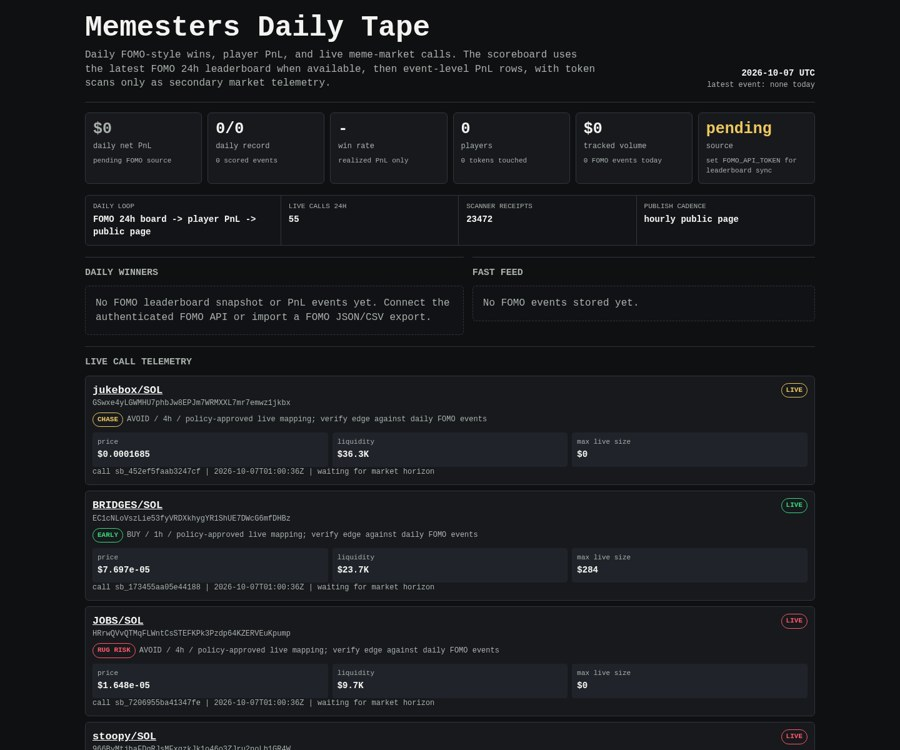
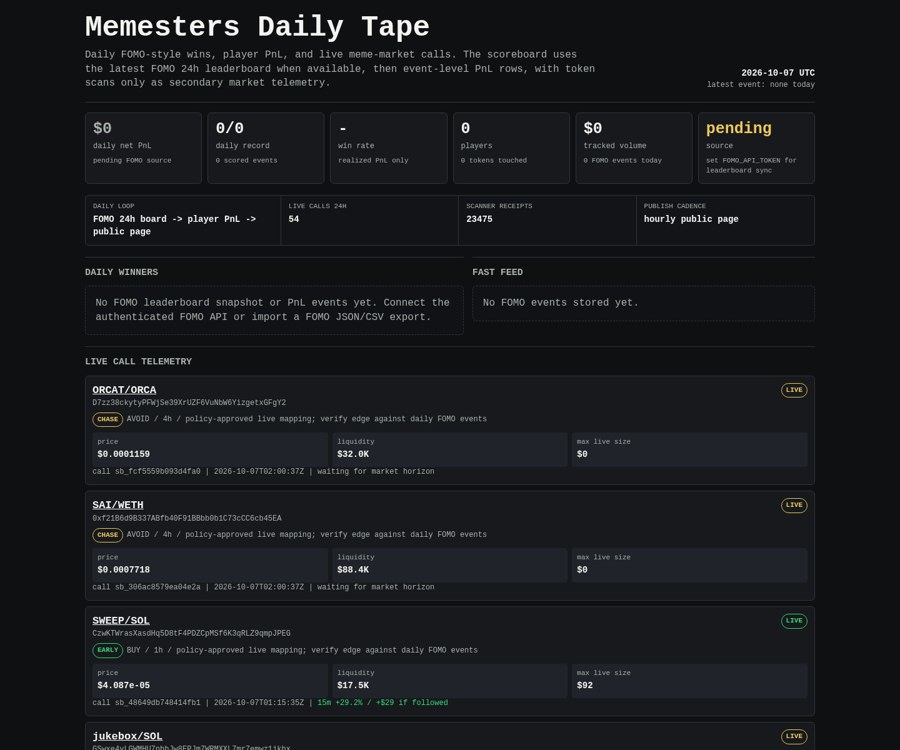
Update Memesters scoreboard

diff --git a/memesters/index.html b/memesters/index.html
@@ -149,8 +149,8 @@
 
     <div class="rail" aria-label="live operating loop">
       <div><span>daily loop</span><b>FOMO 24h board -> player PnL -> public page</b></div>
-      <div><span>live calls 24h</span><b>55</b></div>
-      <div><span>scanner receipts</span><b>23472</b></div>
+      <div><span>live calls 24h</span><b>54</b></div>
+      <div><span>scanner receipts</span><b>23475</b></div>
       <div><span>publish cadence</span><b>hourly public page</b></div>
     </div>
 
@@ -171,6 +171,69 @@
     <article class="receipt">
       <div class="receipt-head">
         <div>
+          <div class="pair"><a href="https://dexscreener.com/solana/8wxobaaaf3gjeaxaklpiapjtpxt2pb7sfdi8qwyp2jr3">ORCAT/ORCA</a></div>
+          <div class="addr">D7zz38ckytyPFWjSe39XrUZF6VuNbW6YizgetxGFgY2</div>
+          <div class="addr policy-line">
+            <span class="badge chase">CHASE</span>
+            <span>AVOID / 4h / policy-approved live mapping; verify edge against daily FOMO events</span>
+          </div>
+        </div>
+        <span class="badge chase">LIVE</span>
+      </div>
+      <div class="receipt-grid">
+        <div class="kv"><span>price</span><b>$0.0001159</b></div>
+        <div class="kv"><span>liquidity</span><b>$32.0K</b></div>
+        <div class="kv"><span>max live size</span><b>$0</b></div>
+      </div>
+      <div class="outcomes">call sb_fcf5559b093d4fa0 | 2026-10-07T02:00:37Z | waiting for market horizon</div>
+    </article>
+    
+
+    <article class="receipt">
+      <div class="receipt-head">
+        <div>
+          <div class="pair"><a href="https://dexscreener.com/robinhood/0xddefc8467c9b77e3f2c1525e0cb0f453e4408fc0">SAI/WETH</a></div>
+          <div class="addr">0xf21B6d9B337ABfb40F91BBbb0b1C73cCC6cb45EA</div>
+          <div class="addr policy-line">
+            <span class="badge chase">CHASE</span>
+            <span>AVOID / 4h / policy-approved live mapping; verify edge against daily FOMO events</span>
+          </div>
+        </div>
+        <span class="badge chase">LIVE</span>
+      </div>
+      <div class="receipt-grid">
+        <div class="kv"><span>price</span><b>$0.0007718</b></div>
+        <div class="kv"><span>liquidity</span><b>$88.4K</b></div>
+        <div class="kv"><span>max live size</span><b>$0</b></div>
+      </div>
+      <div class="outcomes">call sb_306ac8579ea04e2a | 2026-10-07T02:00:37Z | waiting for market horizon</div>
+    </article>
+    
+
+    <article class="receipt">
+      <div class="receipt-head">
+        <div>
+          <div class="pair"><a href="https://dexscreener.com/solana/a31padxqwx3qy23u8akki1ww4m4pyvrn1nxm6wqvlvqm">SWEEP/SOL</a></div>
+          <div class="addr">CzwKTWrasXasdHq5D8tF4PDZCpMSf6K3qRLZ9qmpJPEG</div>
+          <div class="addr policy-line">
+            <span class="badge early">EARLY</span>
+            <span>BUY / 1h / policy-approved live mapping; verify edge against daily FOMO events</span>
+          </div>
+        </div>
+        <span class="badge early">LIVE</span>
+      </div>
+      <div class="receipt-grid">
+        <div class="kv"><span>price</span><b>$4.087e-05</b></div>
+        <div class="kv"><span>liquidity</span><b>$17.5K</b></div>
+        <div class="kv"><span>max live size</span><b>$92</b></div>
+      </div>
+      <div class="outcomes">call sb_48649db748414fb1 | 2026-10-07T01:15:35Z | <span class="positive">15m +29.2% / +$29 if followed</span></div>
+    </article>
+    
+
+    <article class="receipt">
+      <div class="receipt-head">
+        <div>
           <div class="pair"><a href="https://dexscreener.com/solana/5v6rnh61u9akohnldzyvdqh4usz8run6vxzsbyhpf7fj">jukebox/SOL</a></div>
           <div class="addr">GSwxe4yLGWMHU7phbJw8EPJm7WRMXXL7mr7emwz1jkbx</div>
           <div class="addr policy-line">
@@ -185,7 +248,7 @@
         <div class="kv"><span>liquidity</span><b>$36.3K</b></div>
         <div class="kv"><span>max live size</span><b>$0</b></div>
       </div>
-      <div class="outcomes">call sb_452ef5faab3247cf | 2026-10-07T01:00:36Z | waiting for market horizon</div>
+      <div class="outcomes">call sb_452ef5faab3247cf | 2026-10-07T01:00:36Z | <span class="positive">15m -96.2% / +$96 if followed</span></div>
     </article>
     
 
@@ -206,7 +269,7 @@
         <div class="kv"><span>liquidity</span><b>$23.7K</b></div>
         <div class="kv"><span>max live size</span><b>$284</b></div>
       </div>
-      <div class="outcomes">call sb_173455aa05e44188 | 2026-10-07T01:00:36Z | waiting for market horizon</div>
+      <div class="outcomes">call sb_173455aa05e44188 | 2026-10-07T01:00:36Z | <span class="negative">15m -75.8% / -$76 if followed</span></div>
     </article>
     
 
@@ -227,7 +290,7 @@
         <div class="kv"><span>liquidity</span><b>$9.7K</b></div>
         <div class="kv"><span>max live size</span><b>$0</b></div>
       </div>
-      <div class="outcomes">call sb_7206955ba41347fe | 2026-10-07T01:00:36Z | waiting for market horizon</div>
+      <div class="outcomes">call sb_7206955ba41347fe | 2026-10-07T01:00:36Z | <span class="positive">15m -74.4% / +$74 if followed</span></div>
     </article>
     
 
@@ -248,7 +311,7 @@
         <div class="kv"><span>liquidity</span><b>$5.9K</b></div>
         <div class="kv"><span>max live size</span><b>$0</b></div>
       </div>
-      <div class="outcomes">call sb_c71d34e2436c490c | 2026-10-07T00:00:40Z | <span class="positive">15m -27.4% / +$27 if followed</span></div>
+      <div class="outcomes">call sb_c71d34e2436c490c | 2026-10-07T00:00:40Z | <span class="positive">15m -27.4% / +$27 if followed</span> | <span class="positive">1h -27.7% / +$28 if followed</span></div>
     </article>
     
 
@@ -312,69 +375,6 @@
         <div class="kv"><span>max live size</span><b>$0</b></div>
       </div>
       <div class="outcomes">call sb_f55568e0badb4206 | 2026-10-06T22:00:41Z | <span class="positive">15m -0.8% / +$1 if followed</span> | <span class="positive">1h -8.3% / +$8 if followed</span></div>
-    </article>
-    
-
-    <article class="receipt">
-      <div class="receipt-head">
-        <div>
-          <div class="pair"><a href="https://dexscreener.com/solana/ioadgkquh6h5nntmcv8k3nvagstis3xmfnan3j11kzv">RARI/RACE</a></div>
-          <div class="addr">EFn88CiiFHhihqdr1Y11XBDxbbYarBf1ij92DsrigYwR</div>
-          <div class="addr policy-line">
-            <span class="badge chase">CHASE</span>
-            <span>AVOID / 4h / policy-approved live mapping; verify edge against daily FOMO events</span>
-          </div>
-        </div>
-        <span class="badge chase">LIVE</span>
-      </div>
-      <div class="receipt-grid">
-        <div class="kv"><span>price</span><b>$0.001364</b></div>
-        <div class="kv"><span>liquidity</span><b>$108.2K</b></div>
-        <div class="kv"><span>max live size</span><b>$0</b></div>
-      </div>
-      <div class="outcomes">call sb_dbb6621a7d454a4b | 2026-10-06T20:15:37Z | <span class="negative">15m +66.9% / -$67 if followed</span> | <span class="negative">1h +82.3% / -$82 if followed</span> | <span class="positive">4h -10.1% / +$10 if followed</span></div>
-    </article>
-    
-
-    <article class="receipt">
-      <div class="receipt-head">
-        <div>
-          <div class="pair"><a href="https://dexscreener.com/solana/hu22ubatza7ajmkdjasyodhtffw6xvs6d9bsxlt9ugdb">SNDWITCH/SOL</a></div>
-          <div class="addr">J9qzFhTLYnmf3tZYvHBaF96rH3YKToELAAVMzz66pump</div>
-          <div class="addr policy-line">
-            <span class="badge chase">CHASE</span>
-            <span>AVOID / 4h / policy-approved live mapping; verify edge against daily FOMO events</span>
-          </div>
-        </div>
-        <span class="badge chase">LIVE</span>
-      </div>
-      <div class="receipt-grid">
-        <div class="kv"><span>price</span><b>$0.000406</b></div>
-        <div class="kv"><span>liquidity</span><b>$58.2K</b></div>
-        <div class="kv"><span>max live size</span><b>$0</b></div>
-      </div>
-      <div class="outcomes">call sb_56d1751390eb4c5d | 2026-10-06T20:15:37Z | <span class="negative">15m +73.4% / -$73 if followed</span> | <span class="positive">1h -9.6% / +$10 if followed</span> | <span class="positive">4h -17.1% / +$17 if followed</span></div>
-    </article>
-    
-
-    <article class="receipt">
-      <div class="receipt-head">
-        <div>
-          <div class="pair"><a href="https://dexscreener.com/robinhood/0xfae05f0de699abfb7541108b42be62bf10587d0732f7be1be260c28a9f235ce0">ORBANCY/ORBIO</a></div>
-          <div class="addr">0x109B383A42305Dc48855B9B791c202002c6B391f</div>
-          <div class="addr policy-line">
-            <span class="badge chase">CHASE</span>
-            <span>AVOID / 4h / policy-approved live mapping; verify edge against daily FOMO events</span>
-          </div>
-        </div>
-        <span class="badge chase">LIVE</span>
-      </div>
-      <div class="receipt-grid">
-        <div class="kv"><span>price</span><b>$0.0002944</b></div>
-        <div class="kv"><span>liquidity</span><b>$51.2K</b></div>
-        <div class="kv"><span>max live size</span><b>$0</b></div>
-      </div>
-      <div class="outcomes">call sb_40a7dfa5b47c41d3 | 2026-10-06T20:15:37Z | <span class="positive">15m -24.7% / +$25 if followed</span> | <span class="positive">1h -43.8% / +$44 if followed</span> | <span class="negative">4h +9.4% / -$9 if followed</span></div>
     </article>
     
     </section>
